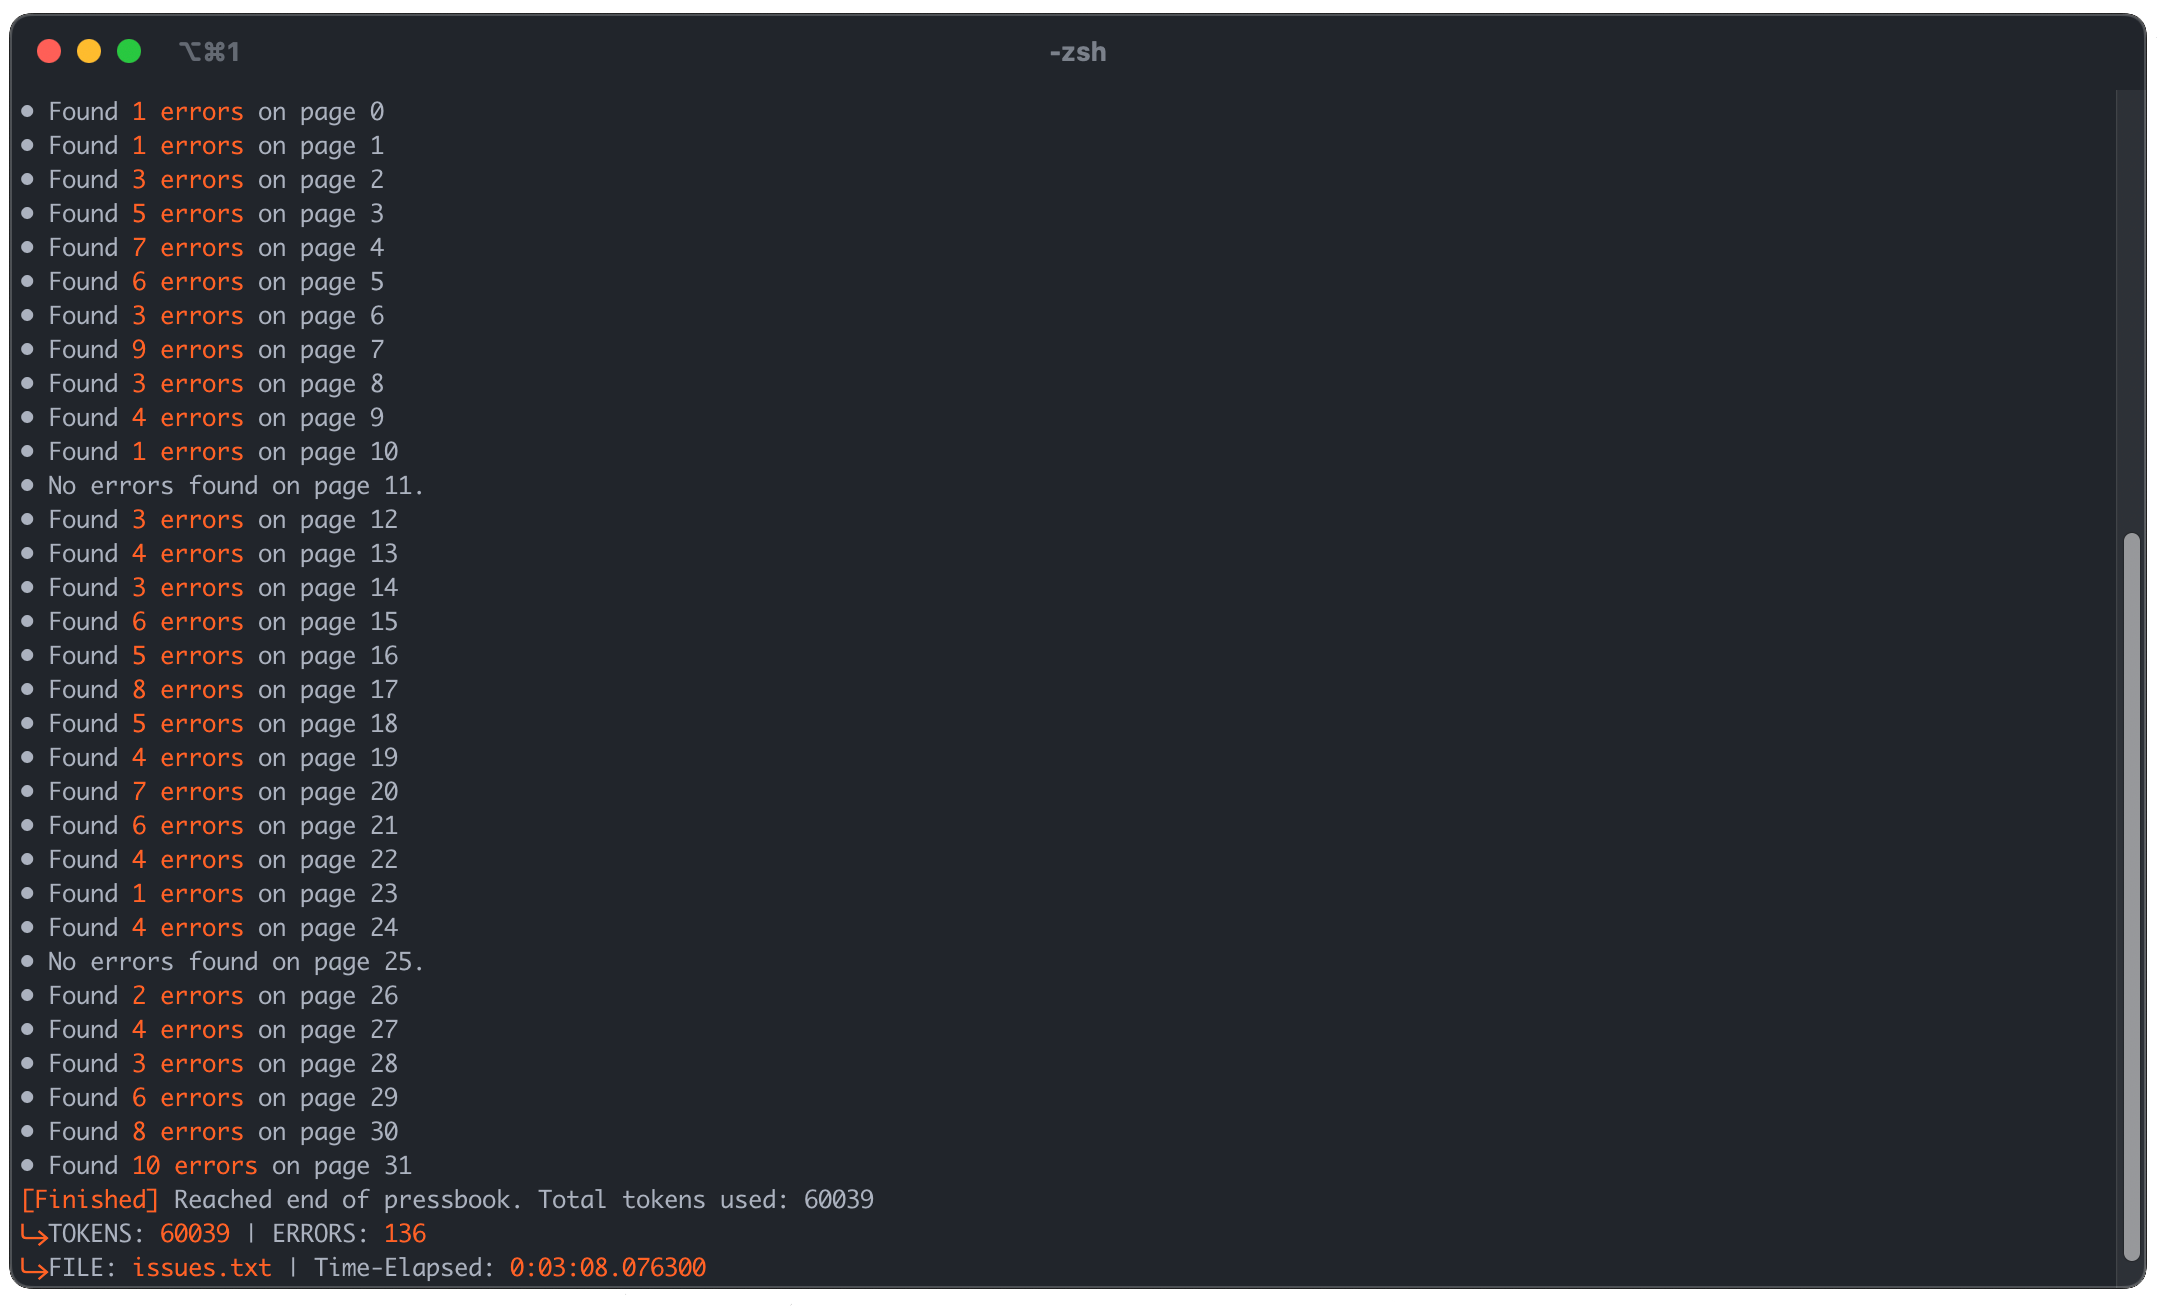
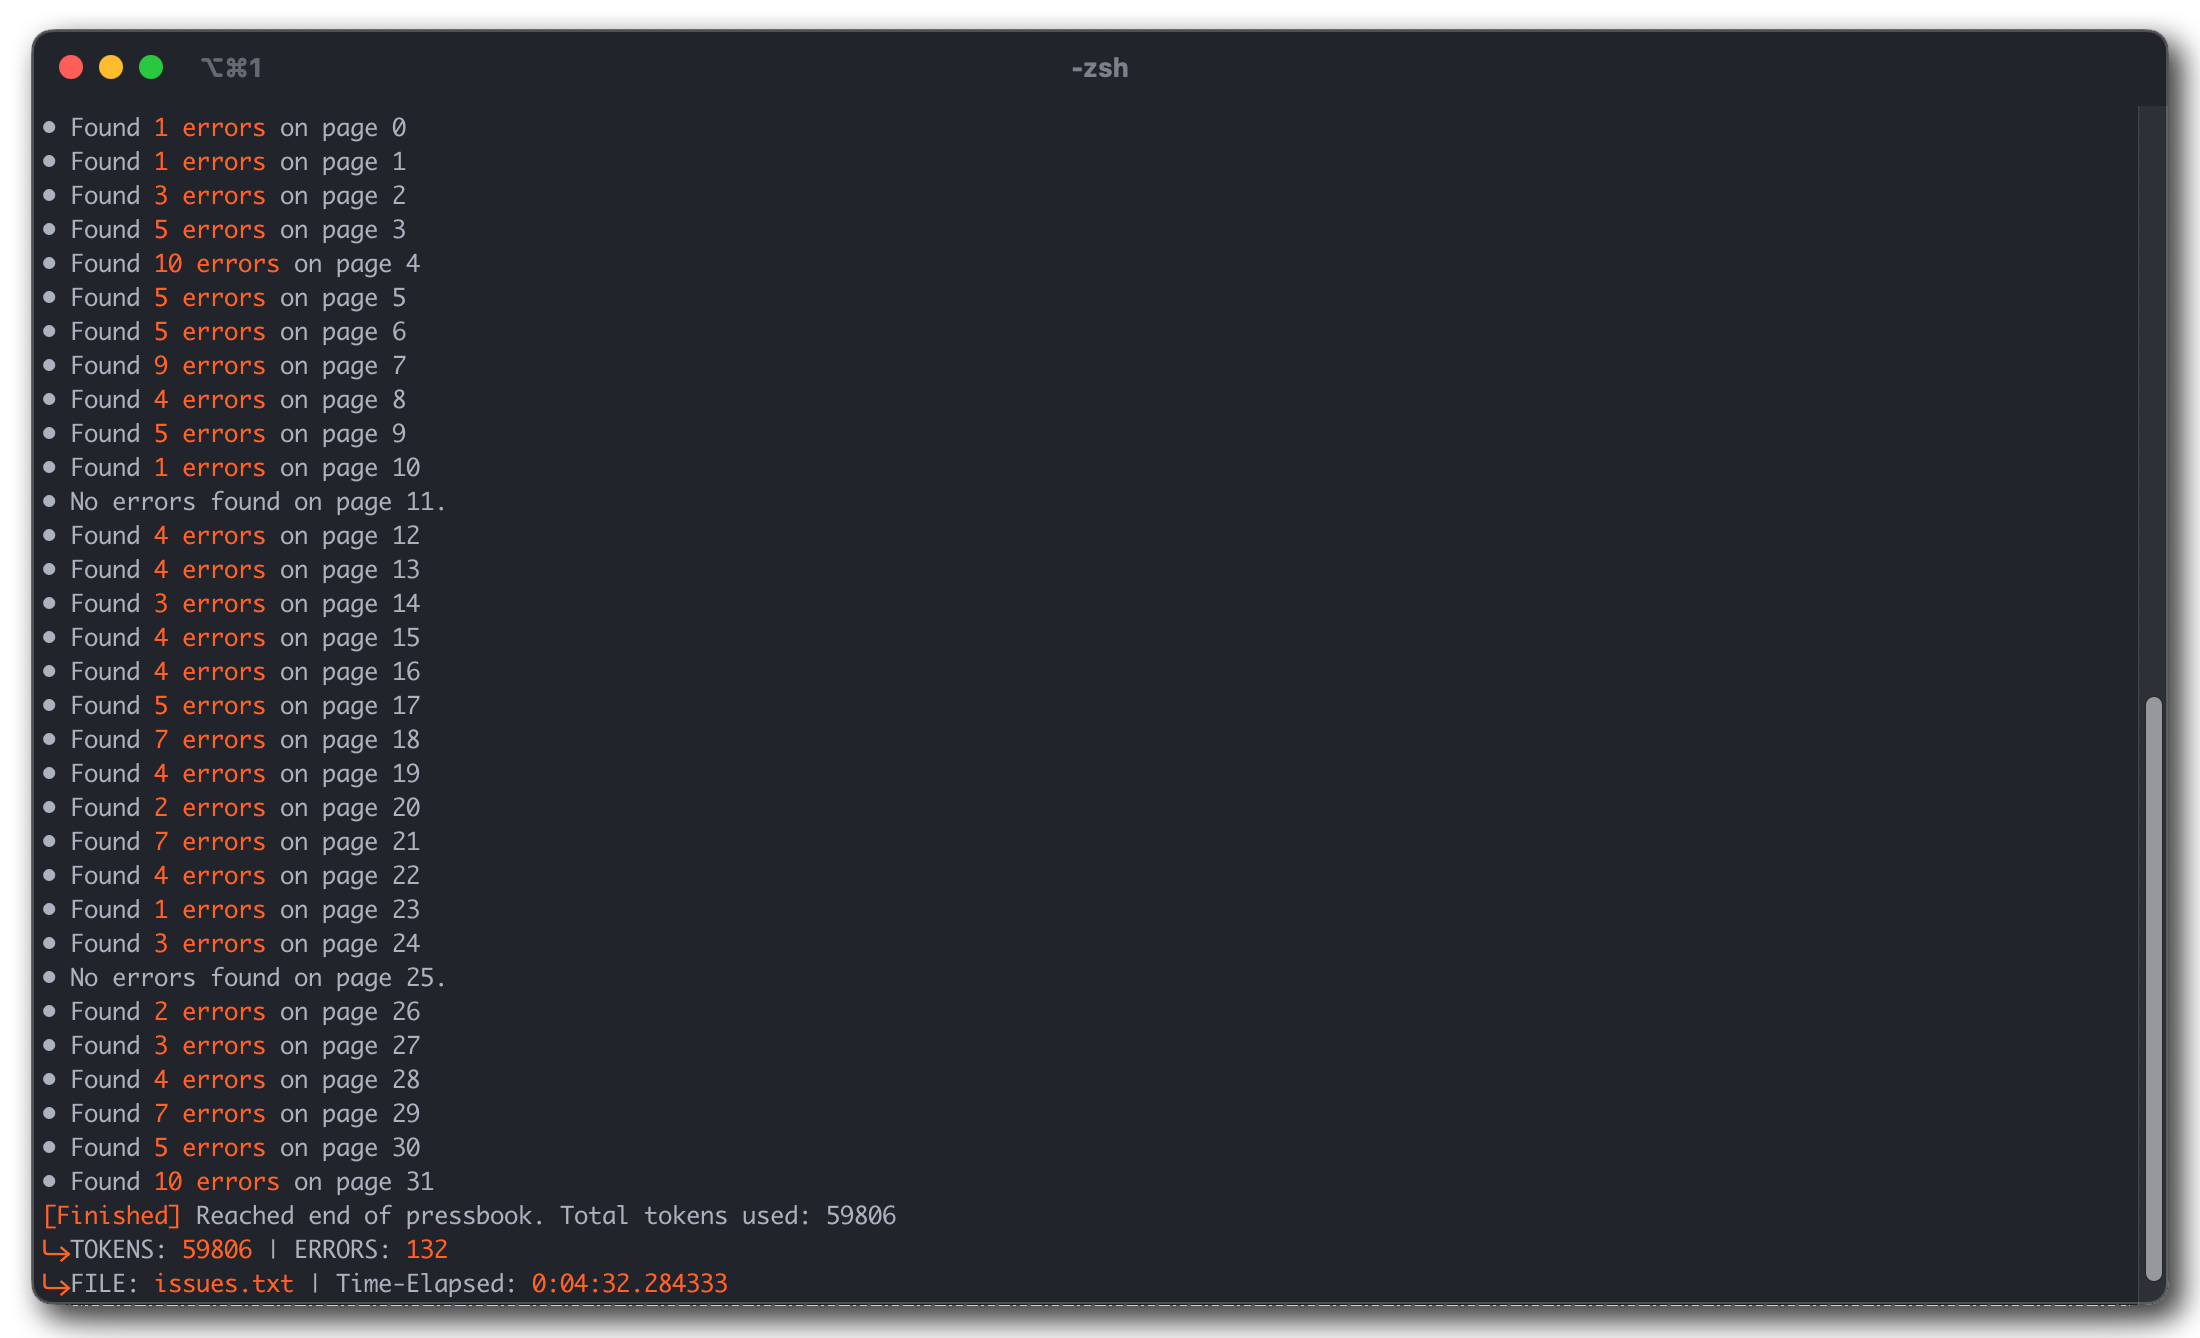
Optimized scraper
- Scraper now appropriately only scrapes page once instead of 3 times
- Updated image in README

Changed region(s): [[0.0, 0.0, 1.0, 1.0]]

diff --git a/build/lib/pressproof/scraper.py b/build/lib/pressproof/scraper.py
@@ -1,5 +1,6 @@
 from bs4 import BeautifulSoup, NavigableString, Tag
 from urllib.parse import urljoin
+from dataclasses import dataclass
 import unicodedata
 import re
 import requests
@@ -83,6 +84,7 @@ def _reflow(raw: str) -> str:
 class Scraper:
     def __init__(self, args):
         self.args = args
+        self.latestSoup = None
 
     def _fetch_soup(self, url: str) -> BeautifulSoup:
         headers = {"User-Agent": getattr(self.args, "useragent", "Mozilla/5.0")}
@@ -93,13 +95,14 @@ class Scraper:
         except Exception:
             return BeautifulSoup(r.text, "html.parser")
 
-    def getPageContent(self, url: str) -> str:
-        soup = self._fetch_soup(url)
+    def indexPage(self, url: str): 
+        self.latestSoup = self._fetch_soup(url)
 
+    def getCurrentPageContent(self) -> str:
         # Prefer main content region; fallback to role/main/body
-        main = soup.select_one("article .entry-content")
+        main = self.latestSoup.select_one("article .entry-content")
         if not main:
-            main = soup.select_one('[role="main"]') or soup.select_one("main") or soup.body
+            main = self.latestSoup.select_one('[role="main"]') or self.latestSoup.select_one("main") or self.latestSoup.body
         if not main:
             return ""
 
@@ -109,33 +112,30 @@ class Scraper:
         return cleaned
     
     
-    def getPageTitle(self, url: str) -> str | None:
-        soup = self._fetch_soup(url)
-        h1 = soup.select_one("article h1.entry-title")
+    def getCurrentPageTitle(self) -> str | None:
+        h1 = self.latestSoup.select_one("article h1.entry-title")
         if h1 and h1.get_text(strip=True):
             return h1.get_text(strip=True)
         
-        title_tag = soup.title
+        title_tag = self.latestSoup.title
         if title_tag and title_tag.string:
             return title_tag.string.strip()
         
         return None
 
-    def getNextPageURL(self, url: str):
-        soup = self._fetch_soup(url)
-
+    def getCurrentNextPageURL(self, url: str):
         # Search by <link> with rel=next---
-        link_tag = soup.select_one('link[rel="next"]')
+        link_tag = self.latestSoup.select_one('link[rel="next"]')
         if link_tag and link_tag.get("href"):
             return urljoin(url, link_tag["href"])
 
         # Search by <a> with rel=next---
-        a_rel_next = soup.select_one('a[rel~="next"]')
+        a_rel_next = self.latestSoup.select_one('a[rel~="next"]')
         if a_rel_next and a_rel_next.get("href"):
             return urljoin(url, a_rel_next["href"])
 
         # Search by content
-        for a in soup.find_all("a"):
+        for a in self.latestSoup.find_all("a"):
             text = (a.get_text(strip=True) or "").lower()
             if text.startswith("next"):
                 href = a.get("href")
@@ -143,7 +143,7 @@ class Scraper:
                     return urljoin(url, href)
 
         # Search by .nav-links
-        nav_next = soup.select_one(".nav-links a, nav a")
+        nav_next = self.latestSoup.select_one(".nav-links a, nav a")
         if nav_next and nav_next.get("href"):
             label = (nav_next.get_text(strip=True) or "").lower()
             if label.startswith("next"):

diff --git a/pressproof/scraper.py b/pressproof/scraper.py
@@ -1,5 +1,6 @@
 from bs4 import BeautifulSoup, NavigableString, Tag
 from urllib.parse import urljoin
+from dataclasses import dataclass
 import unicodedata
 import re
 import requests
@@ -83,6 +84,7 @@ def _reflow(raw: str) -> str:
 class Scraper:
     def __init__(self, args):
         self.args = args
+        self.latestSoup = None
 
     def _fetch_soup(self, url: str) -> BeautifulSoup:
         headers = {"User-Agent": getattr(self.args, "useragent", "Mozilla/5.0")}
@@ -93,13 +95,14 @@ class Scraper:
         except Exception:
             return BeautifulSoup(r.text, "html.parser")
 
-    def getPageContent(self, url: str) -> str:
-        soup = self._fetch_soup(url)
+    def indexPage(self, url: str): 
+        self.latestSoup = self._fetch_soup(url)
 
+    def getCurrentPageContent(self) -> str:
         # Prefer main content region; fallback to role/main/body
-        main = soup.select_one("article .entry-content")
+        main = self.latestSoup.select_one("article .entry-content")
         if not main:
-            main = soup.select_one('[role="main"]') or soup.select_one("main") or soup.body
+            main = self.latestSoup.select_one('[role="main"]') or self.latestSoup.select_one("main") or self.latestSoup.body
         if not main:
             return ""
 
@@ -109,33 +112,30 @@ class Scraper:
         return cleaned
     
     
-    def getPageTitle(self, url: str) -> str | None:
-        soup = self._fetch_soup(url)
-        h1 = soup.select_one("article h1.entry-title")
+    def getCurrentPageTitle(self) -> str | None:
+        h1 = self.latestSoup.select_one("article h1.entry-title")
         if h1 and h1.get_text(strip=True):
             return h1.get_text(strip=True)
         
-        title_tag = soup.title
+        title_tag = self.latestSoup.title
         if title_tag and title_tag.string:
             return title_tag.string.strip()
         
         return None
 
-    def getNextPageURL(self, url: str):
-        soup = self._fetch_soup(url)
-
+    def getCurrentNextPageURL(self, url: str):
         # Search by <link> with rel=next---
-        link_tag = soup.select_one('link[rel="next"]')
+        link_tag = self.latestSoup.select_one('link[rel="next"]')
         if link_tag and link_tag.get("href"):
             return urljoin(url, link_tag["href"])
 
         # Search by <a> with rel=next---
-        a_rel_next = soup.select_one('a[rel~="next"]')
+        a_rel_next = self.latestSoup.select_one('a[rel~="next"]')
         if a_rel_next and a_rel_next.get("href"):
             return urljoin(url, a_rel_next["href"])
 
         # Search by content
-        for a in soup.find_all("a"):
+        for a in self.latestSoup.find_all("a"):
             text = (a.get_text(strip=True) or "").lower()
             if text.startswith("next"):
                 href = a.get("href")
@@ -143,7 +143,7 @@ class Scraper:
                     return urljoin(url, href)
 
         # Search by .nav-links
-        nav_next = soup.select_one(".nav-links a, nav a")
+        nav_next = self.latestSoup.select_one(".nav-links a, nav a")
         if nav_next and nav_next.get("href"):
             label = (nav_next.get_text(strip=True) or "").lower()
             if label.startswith("next"):

diff --git a/build/lib/pressproof/__main__.py b/build/lib/pressproof/__main__.py
@@ -35,8 +35,10 @@ def proofRead():
     #initializing status bar
     mStatusBar.start(f"Proofreading target: {pageURL}")
 
+    mScraper.indexPage(pageURL)
+
     if (mArgs.dumppage):
-        content = mScraper.getPageContent(mArgs.url)
+        content = mScraper.getCurrentPageContent()
         mLogManager.logString(content=content)
         os._exit(0)
 
@@ -45,17 +47,17 @@ def proofRead():
             reportFinish(True, errorCount, startTime)
             break
 
-        #print(f"{Fore.CYAN}[Scanning] {Fore.WHITE} Page {pageCount + 1}")
         mStatusBar.set_text(f"Proofreading target: {pageURL}")
 
-        content = mScraper.getPageContent(pageURL)
+        mScraper.indexPage(pageURL)
+        content = mScraper.getCurrentPageContent()
 
         errors = mLLMHandler.getTextErrors(content)
 
         if len(errors) > 0: 
             mStatusBar.print_above(f"• Found {Constants.COLOR_ORANGE}{len(errors)} errors{Fore.WHITE} on page {pageCount}")
 
-            title = mScraper.getPageTitle(pageURL)
+            title = mScraper.getCurrentPageTitle()
 
             mLogManager.logErrors(pageURL, title, errors)
 
@@ -64,7 +66,7 @@ def proofRead():
             mStatusBar.print_above(f"• No errors found on page {pageCount}.")
 
 
-        pageURL = mScraper.getNextPageURL(pageURL)
+        pageURL = mScraper.getCurrentNextPageURL(pageURL)
         pageCount += 1
 
         if not pageURL:
@@ -73,12 +75,10 @@ def proofRead():
 
 def reportFinish(isInterrupted: bool, errorCount: int, startTime):
     if isInterrupted:
-        #print(f"{Fore.GREEN}[Finished] {Fore.WHITE}Reached depth limit. Total tokens used: {mLLMHandler.tokenCount}")
-        mStatusBar.stop(f"{Constants.COLOR_ORANGE}[Finished] {Fore.WHITE}Reached depth limit. Total tokens used: {mLLMHandler.tokenCount}")
+        mStatusBar.stop(f"{Constants.COLOR_ORANGE}[Finished] {Fore.WHITE}Reached depth limit.")
         reportStats(errorCount, startTime)
     else:
-        #print(f"{Fore.GREEN}[Finished] {Fore.WHITE}Reached end of pressbook. Total tokens used: {mLLMHandler.tokenCount}")
-        mStatusBar.stop(f"{Constants.COLOR_ORANGE}[Finished] {Fore.WHITE}Reached end of pressbook. Total tokens used: {mLLMHandler.tokenCount}")
+        mStatusBar.stop(f"{Constants.COLOR_ORANGE}[Finished] {Fore.WHITE}Reached end of pressbook.")
         reportStats(errorCount, startTime)
 
 def reportStats(errorCount, startTime):

diff --git a/pressproof/__main__.py b/pressproof/__main__.py
@@ -35,8 +35,10 @@ def proofRead():
     #initializing status bar
     mStatusBar.start(f"Proofreading target: {pageURL}")
 
+    mScraper.indexPage(pageURL)
+
     if (mArgs.dumppage):
-        content = mScraper.getPageContent(mArgs.url)
+        content = mScraper.getCurrentPageContent()
         mLogManager.logString(content=content)
         os._exit(0)
 
@@ -47,14 +49,15 @@ def proofRead():
 
         mStatusBar.set_text(f"Proofreading target: {pageURL}")
 
-        content = mScraper.getPageContent(pageURL)
+        mScraper.indexPage(pageURL)
+        content = mScraper.getCurrentPageContent()
 
         errors = mLLMHandler.getTextErrors(content)
 
         if len(errors) > 0: 
             mStatusBar.print_above(f"• Found {Constants.COLOR_ORANGE}{len(errors)} errors{Fore.WHITE} on page {pageCount}")
 
-            title = mScraper.getPageTitle(pageURL)
+            title = mScraper.getCurrentPageTitle()
 
             mLogManager.logErrors(pageURL, title, errors)
 
@@ -63,7 +66,7 @@ def proofRead():
             mStatusBar.print_above(f"• No errors found on page {pageCount}.")
 
 
-        pageURL = mScraper.getNextPageURL(pageURL)
+        pageURL = mScraper.getCurrentNextPageURL(pageURL)
         pageCount += 1
 
         if not pageURL:
@@ -72,10 +75,10 @@ def proofRead():
 
 def reportFinish(isInterrupted: bool, errorCount: int, startTime):
     if isInterrupted:
-        mStatusBar.stop(f"{Constants.COLOR_ORANGE}[Finished] {Fore.WHITE}Reached depth limit")
+        mStatusBar.stop(f"{Constants.COLOR_ORANGE}[Finished] {Fore.WHITE}Reached depth limit.")
         reportStats(errorCount, startTime)
     else:
-        mStatusBar.stop(f"{Constants.COLOR_ORANGE}[Finished] {Fore.WHITE}Reached end of pressbook")
+        mStatusBar.stop(f"{Constants.COLOR_ORANGE}[Finished] {Fore.WHITE}Reached end of pressbook.")
         reportStats(errorCount, startTime)
 
 def reportStats(errorCount, startTime):

diff --git a/README.md b/README.md
@@ -1,6 +1,6 @@
 ![CLI Render](assets/uirender.png)
 # PressProof
-PressProof is a command-line tool proofreading pressbook books. Given the a starting page URL, pressbook automatically crawls through each consecutive page, extracting text and identifying errors using an LLM of choice (Restricted to OpenAI). Results are logged in realtime to a log file containing each error, the reason it was flagged, and their solutions!
+PressProof is a command-line tool designed for proofreading pressbook books. Given the a starting page URL, pressbook automatically crawls through each consecutive page, extracting text and identifying errors using an LLM of choice (restricted to OpenAI). Results are logged in realtime to a log file containing each error, the reason it was flagged, and their solutions!
 
 ## Installation & Configuration
 Assuming you have python installed, run:
@@ -22,7 +22,7 @@ pressproof --url <Starting page URL>
 Scanning a pressbook with maximum depth depth and a custom LLM condition: 
 ```
 pressproof --url <Starting page URL> --maddepth 10 --llmcondition <Custom condition>
-pressproof --url <Starting page URL> --llmcondition "Ignore grammatical mistakes involving apostrophes" 
+pressproof --url https://ecampusontario.pressbooks.pub/auditinginformationsystems/chapter/0101/ --maxdepth 10 --llmcondition "Ignore grammatical mistakes involving apostrophes" 
 ```
 
 PressProof offers many more arguments that can be configured that were not directly covered above. If you would like to learn more about them and their usage, run ```pressproof --help``` in your terminal.
@@ -36,9 +36,6 @@ Pressproof generates a log file in the current working directory on the fly, whi
 | <Page Title> | <Page URL>
 Error: <Original Text> | Issue : <Explenation and Solution to error>
 ```
-
-## Known Issues
-- False Positives: Inline styling in some text books can cause the LLM to incorrectly identify errors with regards to extra or missing spaces
 
 ## Risk Notice ⚠
 PressProof makes use of web scraping in order to pull information from each page. While Pressbook does not explicitely prohibit web scraping in their terms of service, site policies may change, and access could be restricted at any time. 
